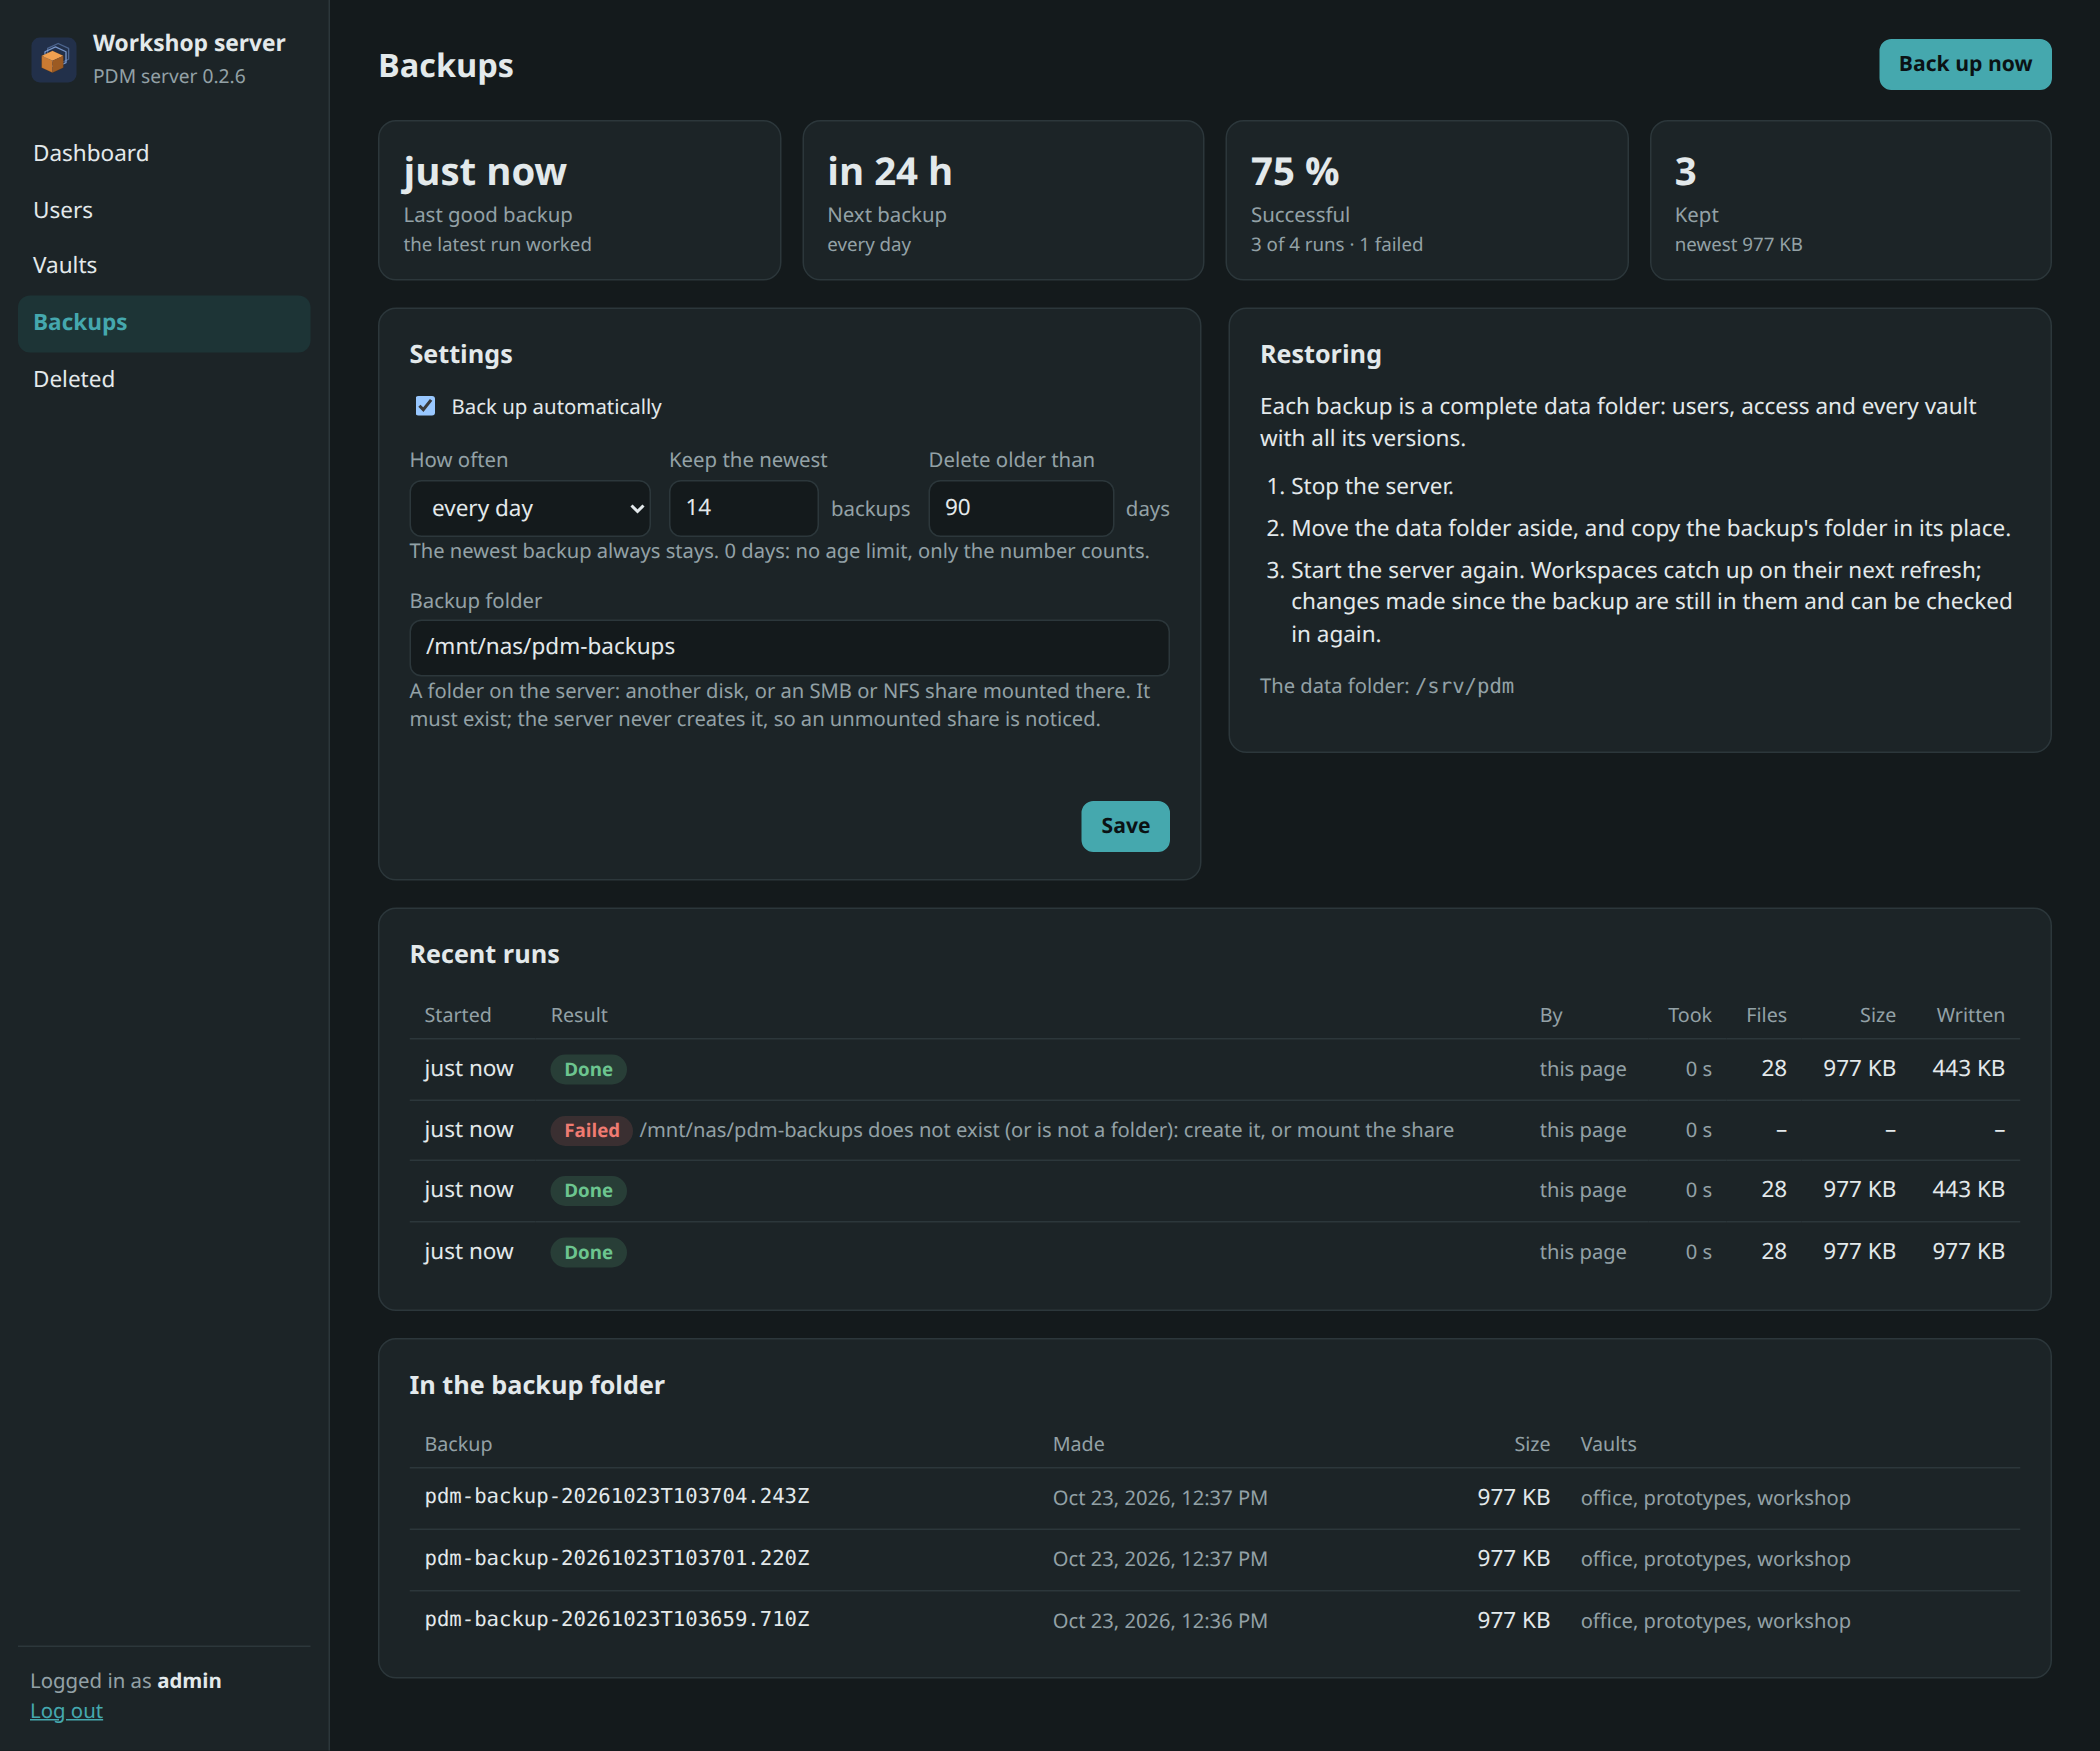
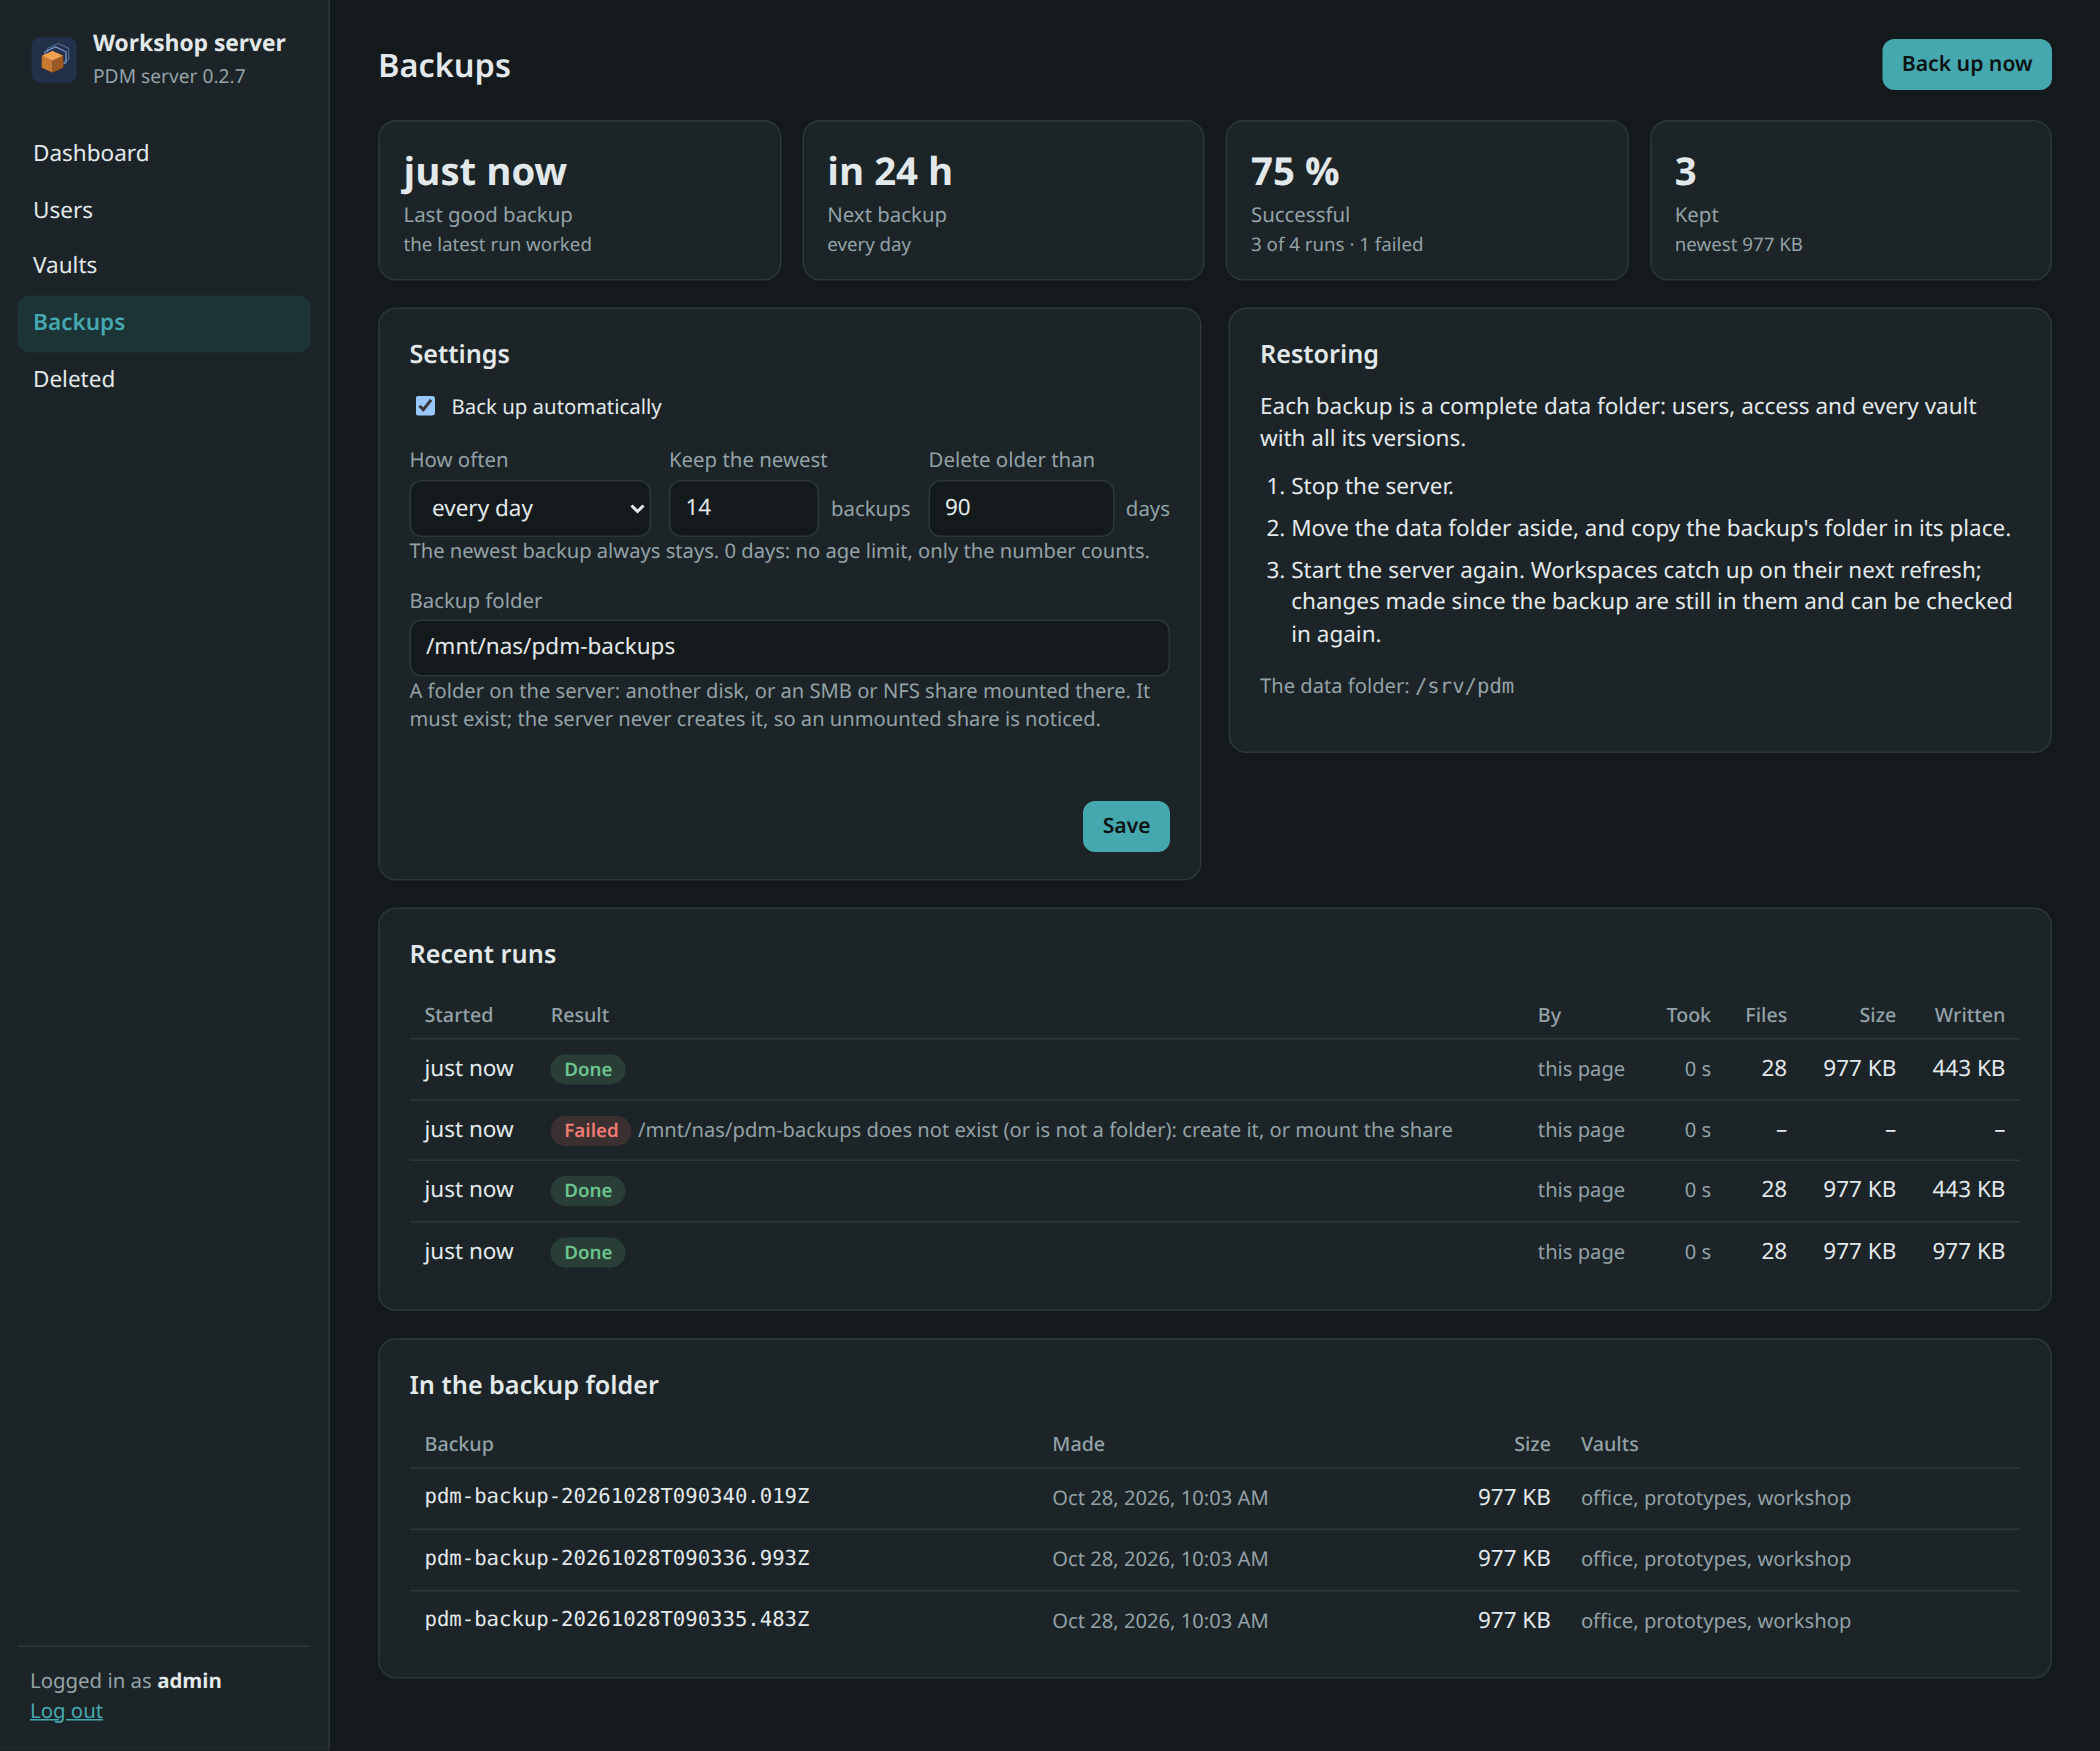
Version 0.2.7

diff --git a/CHANGELOG.md b/CHANGELOG.md
@@ -3,7 +3,7 @@
 The notes of each version become its GitLab release notes: the release job takes the section
 whose heading starts with `## <version>`.
 
-## Unreleased
+## 0.2.7 — 2026-10-28
 
 ### App and server
 
